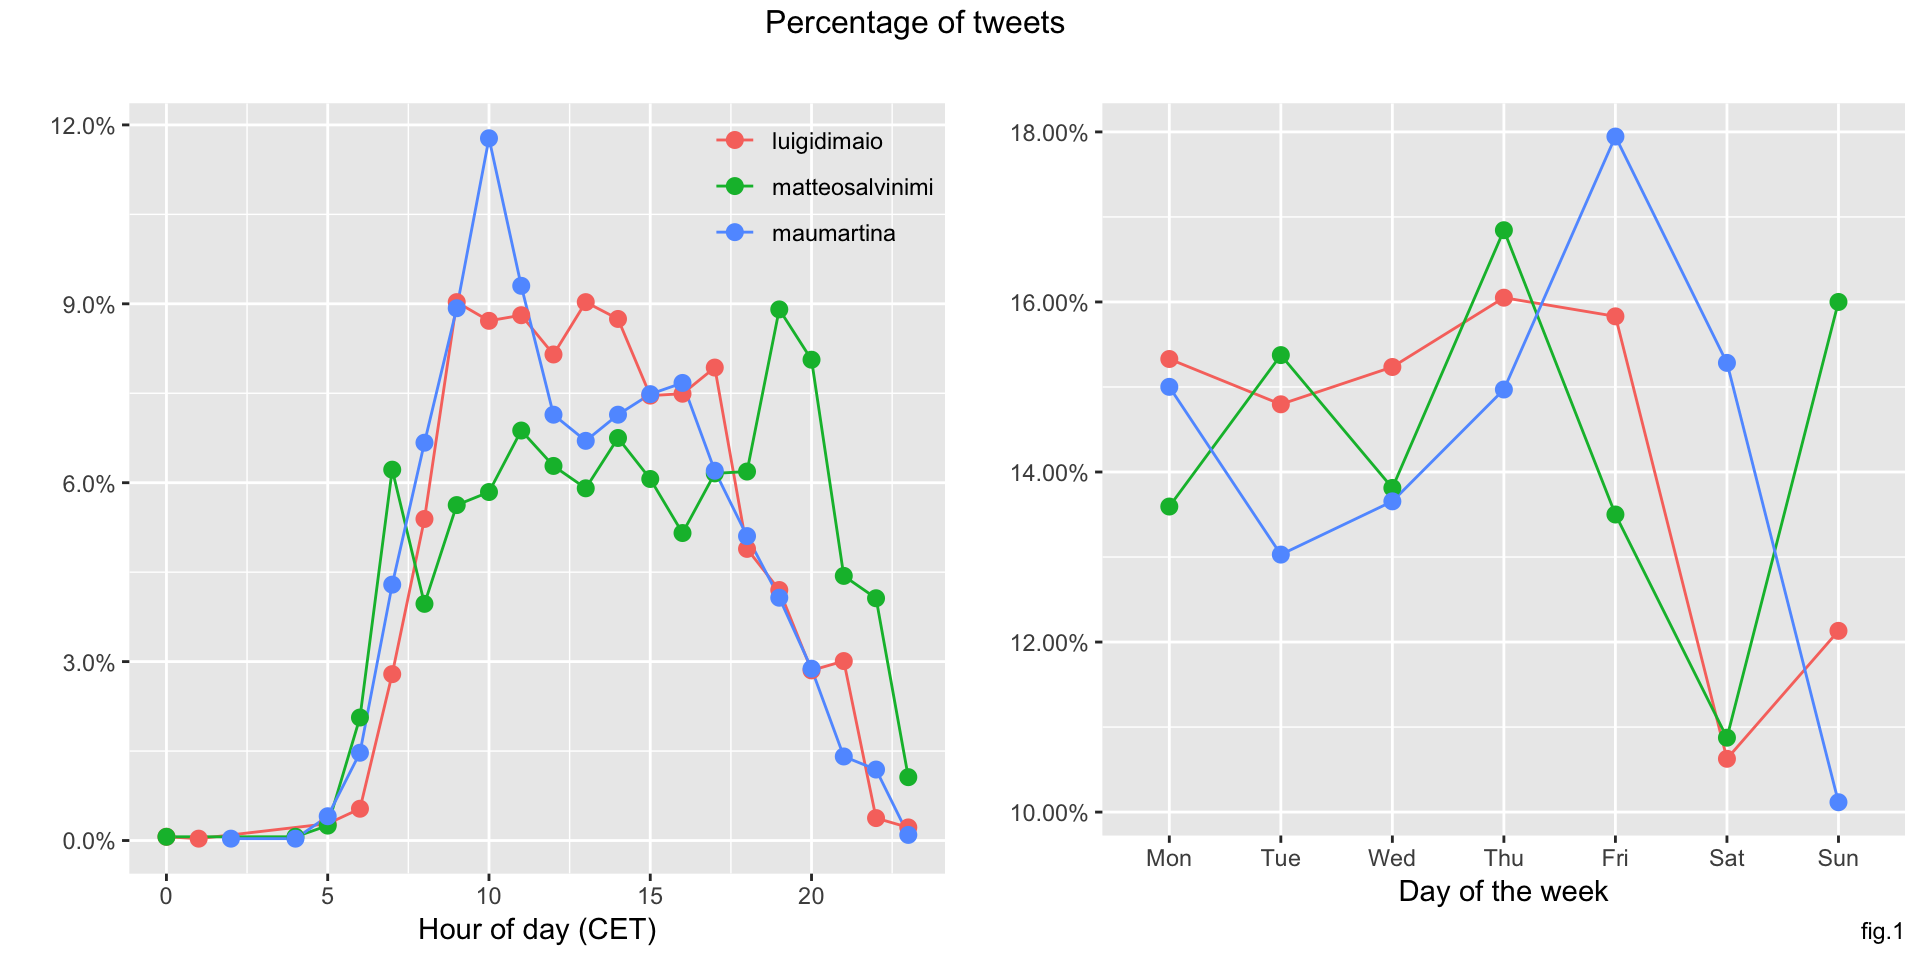
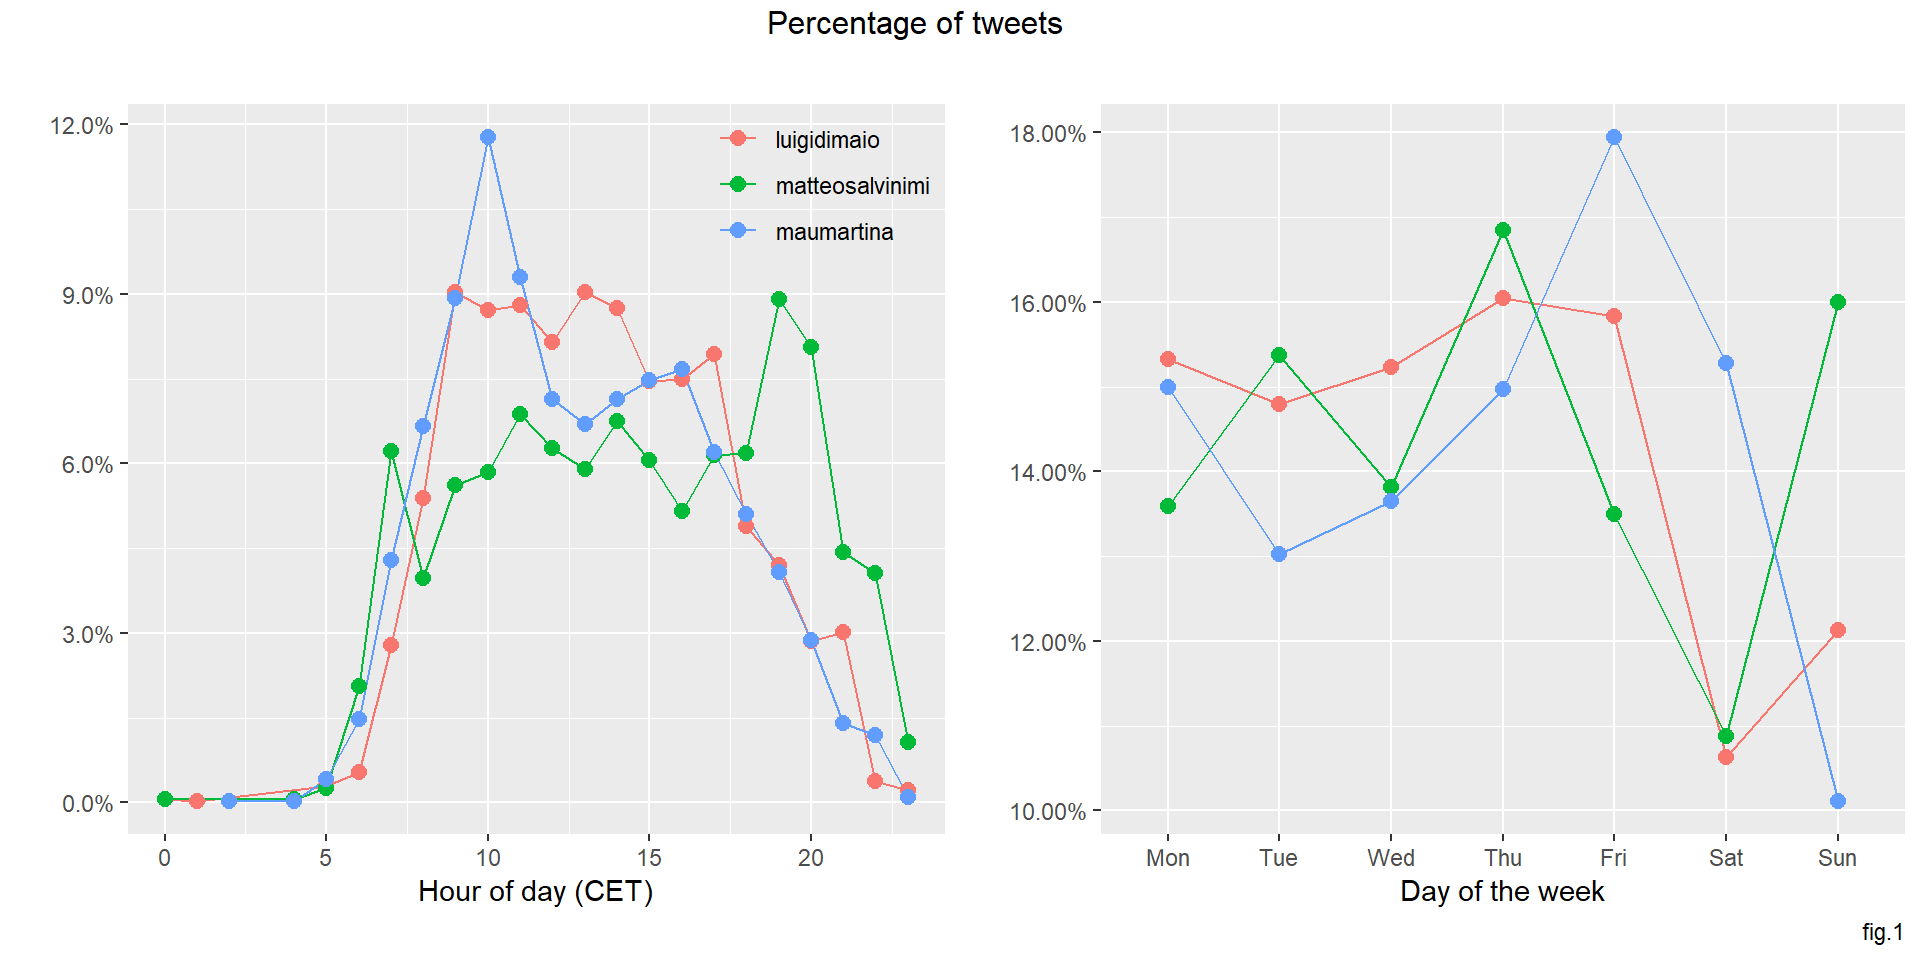
up again

diff --git a/public/post/il-re-di-twitter-parte-i/index.html b/public/post/il-re-di-twitter-parte-i/index.html
@@ -3,7 +3,7 @@
 <head>
   <meta charset="utf-8">
   <meta http-equiv="X-UA-Compatible" content="IE=edge,chrome=1">
-  <title>Il Re di Twitter? (PARTE I) - Jane - A super concise theme for Hugo</title>
+  <title>Il Re di Twitter? (PARTE I) - MuayData blog</title>
   
 
 <meta name="renderer" content="webkit" />
@@ -68,7 +68,7 @@
 
 <meta itemprop="datePublished" content="2018-09-10T00:00:00&#43;00:00" />
 <meta itemprop="dateModified" content="2018-09-10T00:00:00&#43;00:00" />
-<meta itemprop="wordCount" content="3185">
+<meta itemprop="wordCount" content="3190">
 
 
 
@@ -276,7 +276,7 @@
             <a href="/categories/twitter/"> twitter </a>
             
           </div>
-        <span class="more-meta"> 3185 words </span>
+        <span class="more-meta"> 3190 words </span>
           <span class="more-meta"> 15 min read </span>
 
         
@@ -391,7 +391,7 @@ Una volta creata la app, il pacchetto <em>twitteR</em> ci permetterà di acceder
 <td class="lntd">
 <pre class="chroma"><code class="language-r" data-lang="r"><span class="kn">library</span><span class="p">(</span><span class="s">&#34;twitteR&#34;</span><span class="p">)</span>
 
-API_key <span class="o">&lt;-</span> 	<span class="s">&#34;XXX&#34;</span>
+API_key <span class="o">&lt;-</span>  <span class="s">&#34;XXX&#34;</span>
 API_secret <span class="o">&lt;-</span> <span class="s">&#34;XXX&#34;</span>
 access_token <span class="o">&lt;-</span> <span class="s">&#34;XXX&#34;</span>
 access_secret <span class="o">&lt;-</span> <span class="s">&#34;XXX&#34;</span>
@@ -591,6 +591,7 @@ knitr<span class="o">::</span>kable<span class="p">(</span>retw<span class="p">,
 </span><span class="lnt">18
 </span><span class="lnt">19
 </span><span class="lnt">20
+</span><span class="lnt">21
 </span></code></pre></td>
 <td class="lntd">
 <pre class="chroma"><code class="language-r" data-lang="r"><span class="c1"># this creates the plots of tweets by hours</span>
@@ -611,7 +612,8 @@ tw_h <span class="o">&lt;-</span> twdat <span class="o">%&gt;%</span>
   labs<span class="p">(</span>x <span class="o">=</span> <span class="s">&#34;Hour of day (CET)&#34;</span><span class="p">,</span>
        y <span class="o">=</span> <span class="s">&#34;&#34;</span><span class="p">,</span>
        color <span class="o">=</span> <span class="s">&#34;&#34;</span><span class="p">,</span>
-       title <span class="o">=</span> <span class="s">&#34;&#34;</span><span class="p">)</span> <span class="o">+</span>
+       title <span class="o">=</span> <span class="s">&#34;&#34;</span><span class="p">,</span>
+       caption <span class="o">=</span> <span class="s">&#34; &#34;</span><span class="p">)</span> <span class="o">+</span>
   theme<span class="p">(</span>legend.position <span class="o">=</span> <span class="kt">c</span><span class="p">(</span><span class="m">0.85</span><span class="p">,</span><span class="m">0.92</span><span class="p">),</span> legend.background <span class="o">=</span> element_blank<span class="p">(),</span> legend.key <span class="o">=</span> element_blank<span class="p">())</span></code></pre></td></tr></table>
 </div>
 </div>
@@ -1075,7 +1077,7 @@ Sono piuttosto chiare le differenze tra i 3 politici:</p>
 
 <p>Seduto alla sua scrivania e con il suo iphone (fig.8), <strong>Salivini ha fatto di <em>Twitter</em> il suo regno incontrastato</strong>.</p>
 
-<p><em>Per commenti o segnalazioni di errori contattatemi alla mia email: clau6ioHH$gmail.com</em></p>
+<p><em>Per commenti o segnalazioni di errori contattatemi alla mia email: clau6ioHH@gmail.com</em></p>
 
     </div>
 

diff --git a/public/index.html b/public/index.html
@@ -3,7 +3,7 @@
 <head>
   <meta charset="utf-8">
   <meta http-equiv="X-UA-Compatible" content="IE=edge,chrome=1">
-  <title>Jane - A super concise theme for Hugo</title>
+  <title>MuayData blog</title>
   
 
 <meta name="renderer" content="webkit" />
@@ -37,7 +37,7 @@
 
 
 <link rel="canonical" href="/" />
-<link href="/index.xml" rel="alternate" type="application/rss+xml" title="Jane - A super concise theme for Hugo" />
+<link href="/index.xml" rel="alternate" type="application/rss+xml" title="MuayData blog" />
 
 
 
@@ -57,16 +57,16 @@
 
 
 
-<meta property="og:title" content="Jane - A super concise theme for Hugo" />
+<meta property="og:title" content="MuayData blog" />
 <meta property="og:description" content="My personal blog." />
 <meta property="og:type" content="website" />
 <meta property="og:url" content="/" />
 <meta property="og:updated_time" content="2018-09-10T00:00:00&#43;00:00"/>
-<meta itemprop="name" content="Jane - A super concise theme for Hugo">
+<meta itemprop="name" content="MuayData blog">
 <meta itemprop="description" content="My personal blog.">
 
 <meta name="twitter:card" content="summary"/>
-<meta name="twitter:title" content="Jane - A super concise theme for Hugo"/>
+<meta name="twitter:title" content="MuayData blog"/>
 <meta name="twitter:description" content="My personal blog."/>
 
 <!--[if lte IE 9]>
@@ -272,7 +272,7 @@
           <a href="/categories/twitter/"> twitter </a>
           
         </div>
-      <span class="more-meta"> 3185 words </span>
+      <span class="more-meta"> 3190 words </span>
       <span class="more-meta"> 15 min read </span>
       
       

diff --git a/public/categories/twitter/index.html b/public/categories/twitter/index.html
@@ -3,7 +3,7 @@
 <head>
   <meta charset="utf-8">
   <meta http-equiv="X-UA-Compatible" content="IE=edge,chrome=1">
-  <title>Twitter · Jane - A super concise theme for Hugo</title>
+  <title>Twitter · MuayData blog</title>
   
 
 <meta name="renderer" content="webkit" />
@@ -37,7 +37,7 @@
 
 
 <link rel="canonical" href="/categories/twitter/" />
-<link href="/categories/twitter/index.xml" rel="alternate" type="application/rss+xml" title="Jane - A super concise theme for Hugo" />
+<link href="/categories/twitter/index.xml" rel="alternate" type="application/rss+xml" title="MuayData blog" />
 
 
 

diff --git a/public/tags/textmining/index.html b/public/tags/textmining/index.html
@@ -3,7 +3,7 @@
 <head>
   <meta charset="utf-8">
   <meta http-equiv="X-UA-Compatible" content="IE=edge,chrome=1">
-  <title>Textmining · Jane - A super concise theme for Hugo</title>
+  <title>Textmining · MuayData blog</title>
   
 
 <meta name="renderer" content="webkit" />
@@ -37,7 +37,7 @@
 
 
 <link rel="canonical" href="/tags/textmining/" />
-<link href="/tags/textmining/index.xml" rel="alternate" type="application/rss+xml" title="Jane - A super concise theme for Hugo" />
+<link href="/tags/textmining/index.xml" rel="alternate" type="application/rss+xml" title="MuayData blog" />
 
 
 

diff --git a/public/tags/twitter/index.html b/public/tags/twitter/index.html
@@ -3,7 +3,7 @@
 <head>
   <meta charset="utf-8">
   <meta http-equiv="X-UA-Compatible" content="IE=edge,chrome=1">
-  <title>Twitter · Jane - A super concise theme for Hugo</title>
+  <title>Twitter · MuayData blog</title>
   
 
 <meta name="renderer" content="webkit" />
@@ -37,7 +37,7 @@
 
 
 <link rel="canonical" href="/tags/twitter/" />
-<link href="/tags/twitter/index.xml" rel="alternate" type="application/rss+xml" title="Jane - A super concise theme for Hugo" />
+<link href="/tags/twitter/index.xml" rel="alternate" type="application/rss+xml" title="MuayData blog" />
 
 
 

diff --git a/public/categories/index.html b/public/categories/index.html
@@ -3,7 +3,7 @@
 <head>
   <meta charset="utf-8">
   <meta http-equiv="X-UA-Compatible" content="IE=edge,chrome=1">
-  <title>Categories - Jane - A super concise theme for Hugo</title>
+  <title>Categories - MuayData blog</title>
   
 
 <meta name="renderer" content="webkit" />
@@ -37,7 +37,7 @@
 
 
 <link rel="canonical" href="/categories/" />
-<link href="/categories/index.xml" rel="alternate" type="application/rss+xml" title="Jane - A super concise theme for Hugo" />
+<link href="/categories/index.xml" rel="alternate" type="application/rss+xml" title="MuayData blog" />
 
 
 

diff --git a/public/tags/ggplot/index.html b/public/tags/ggplot/index.html
@@ -3,7 +3,7 @@
 <head>
   <meta charset="utf-8">
   <meta http-equiv="X-UA-Compatible" content="IE=edge,chrome=1">
-  <title>Ggplot · Jane - A super concise theme for Hugo</title>
+  <title>Ggplot · MuayData blog</title>
   
 
 <meta name="renderer" content="webkit" />
@@ -37,7 +37,7 @@
 
 
 <link rel="canonical" href="/tags/ggplot/" />
-<link href="/tags/ggplot/index.xml" rel="alternate" type="application/rss+xml" title="Jane - A super concise theme for Hugo" />
+<link href="/tags/ggplot/index.xml" rel="alternate" type="application/rss+xml" title="MuayData blog" />
 
 
 

diff --git a/public/post/index.html b/public/post/index.html
@@ -3,7 +3,7 @@
 <head>
   <meta charset="utf-8">
   <meta http-equiv="X-UA-Compatible" content="IE=edge,chrome=1">
-  <title>Archive - Jane - A super concise theme for Hugo</title>
+  <title>Archive - MuayData blog</title>
   
 
 <meta name="renderer" content="webkit" />
@@ -37,7 +37,7 @@
 
 
 <link rel="canonical" href="/post/" />
-<link href="/post/index.xml" rel="alternate" type="application/rss+xml" title="Jane - A super concise theme for Hugo" />
+<link href="/post/index.xml" rel="alternate" type="application/rss+xml" title="MuayData blog" />
 
 
 

diff --git a/public/tags/r/index.html b/public/tags/r/index.html
@@ -3,7 +3,7 @@
 <head>
   <meta charset="utf-8">
   <meta http-equiv="X-UA-Compatible" content="IE=edge,chrome=1">
-  <title>R · Jane - A super concise theme for Hugo</title>
+  <title>R · MuayData blog</title>
   
 
 <meta name="renderer" content="webkit" />
@@ -37,7 +37,7 @@
 
 
 <link rel="canonical" href="/tags/r/" />
-<link href="/tags/r/index.xml" rel="alternate" type="application/rss+xml" title="Jane - A super concise theme for Hugo" />
+<link href="/tags/r/index.xml" rel="alternate" type="application/rss+xml" title="MuayData blog" />
 
 
 

diff --git a/public/tags/index.html b/public/tags/index.html
@@ -3,7 +3,7 @@
 <head>
   <meta charset="utf-8">
   <meta http-equiv="X-UA-Compatible" content="IE=edge,chrome=1">
-  <title>Tags - Jane - A super concise theme for Hugo</title>
+  <title>Tags - MuayData blog</title>
   
 
 <meta name="renderer" content="webkit" />
@@ -37,7 +37,7 @@
 
 
 <link rel="canonical" href="/tags/" />
-<link href="/tags/index.xml" rel="alternate" type="application/rss+xml" title="Jane - A super concise theme for Hugo" />
+<link href="/tags/index.xml" rel="alternate" type="application/rss+xml" title="MuayData blog" />
 
 
 

diff --git a/public/404.html b/public/404.html
@@ -3,7 +3,7 @@
 <head>
   <meta charset="utf-8">
   <meta http-equiv="X-UA-Compatible" content="IE=edge,chrome=1">
-  <title>404 page not found - Jane - A super concise theme for Hugo</title>
+  <title>404 page not found - MuayData blog</title>
   
 
 <meta name="renderer" content="webkit" />

diff --git a/public/about/index.html b/public/about/index.html
@@ -3,7 +3,7 @@
 <head>
   <meta charset="utf-8">
   <meta http-equiv="X-UA-Compatible" content="IE=edge,chrome=1">
-  <title>About - Jane - A super concise theme for Hugo</title>
+  <title>About - MuayData blog</title>
   
 
 <meta name="renderer" content="webkit" />
